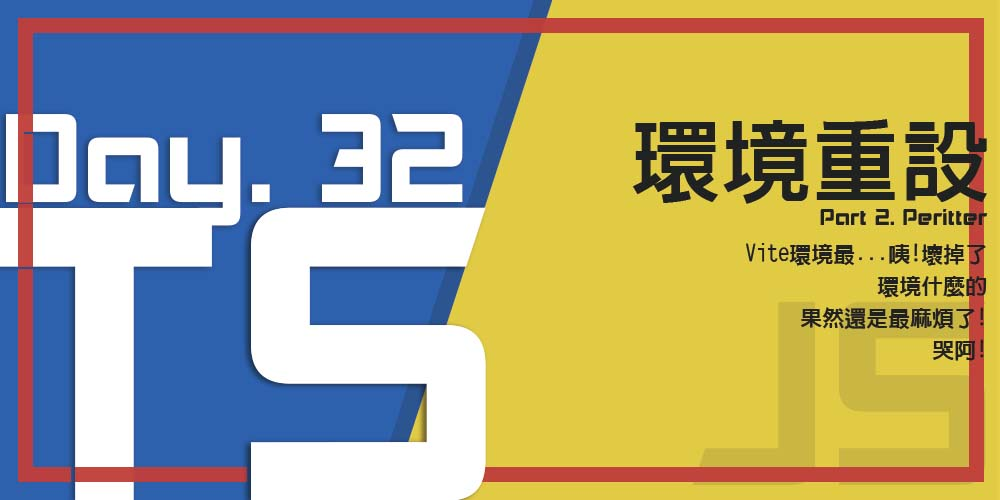
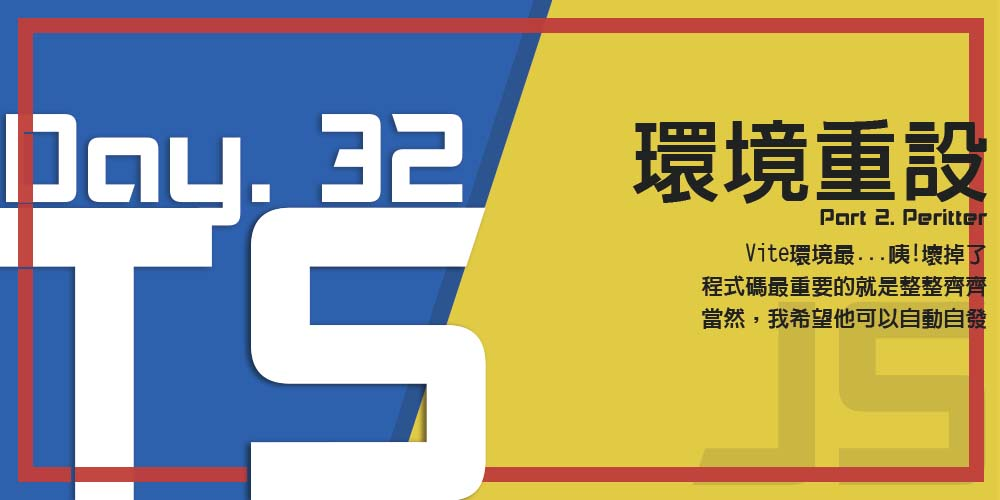
PO Day 32

Changed region(s): [[0.682, 0.54, 0.992, 0.72]]

diff --git a/article/Posterior Plot/[Day32]：後記 - 環境調整 Part2 Prettier.md b/article/Posterior Plot/[Day32]：後記 - 環境調整 Part2 Prettier.md
@@ -1,8 +1,8 @@
-![Day32 Banner](https://ithelp.ithome.com.tw/upload/images/20221001/20109918EjcEQcDdDz.jpg)
+![Day32 Banner](https://ithelp.ithome.com.tw/upload/images/20221002/20109918uBNxvoNmR5.jpg)
 
 # Vite環境最...咦!壞掉了...
-> *環境什麼的*
-> *果然還是最麻煩了! 哭阿!*
+> *程式碼最重要的就是整整齊齊*
+> *當然，我希望他可以自動自發*
 > *──────────────── By Opshell*
 
 ---
@@ -101,7 +101,7 @@
 
 ---
 ## ※ 補充：
-> Day 31 和 Day 32 的 ESLint和Prettier的忽略文件沒啥改，
+> Day 31 和 Day 32 的 `ESLint`和`Prettier`的忽略文件沒啥改，
 > 直接參考[[Day23]：Vite 環境最麻煩了 part 2](https://ithelp.ithome.com.tw/articles/10296947)即可。
 
 ---

diff --git a/article/Posterior Plot/[Day33]：後記 - 環境調整 Part3 AutoLoad.md b/article/Posterior Plot/[Day33]：後記 - 環境調整 Part3 AutoLoad.md
@@ -1,7 +1,7 @@
 ![Day32 Banner](https://ithelp.ithome.com.tw/upload/images/20221001/20109918EjcEQcDdDz.jpg)
 
 # Vite環境最...咦!壞掉了...
-> *環境什麼的*
+> **
 > *果然還是最麻煩了! 哭阿!*
 > *──────────────── By Opshell*
 
